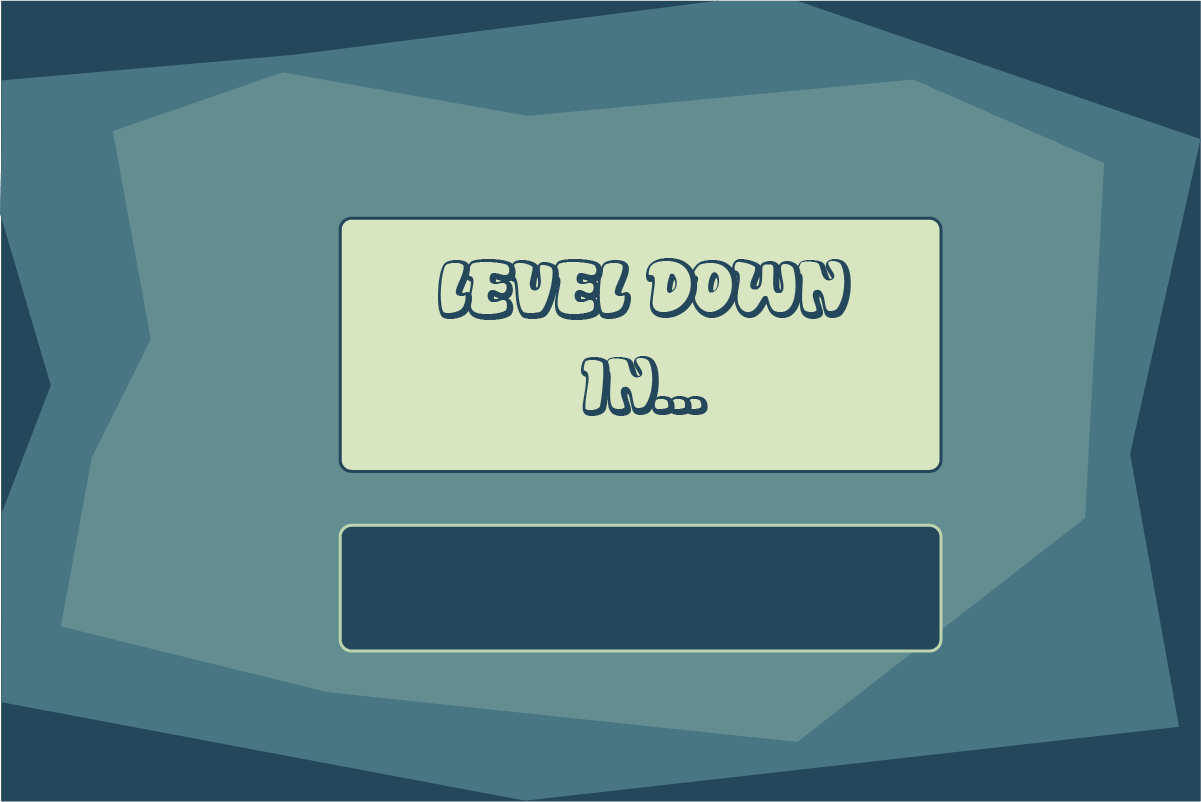
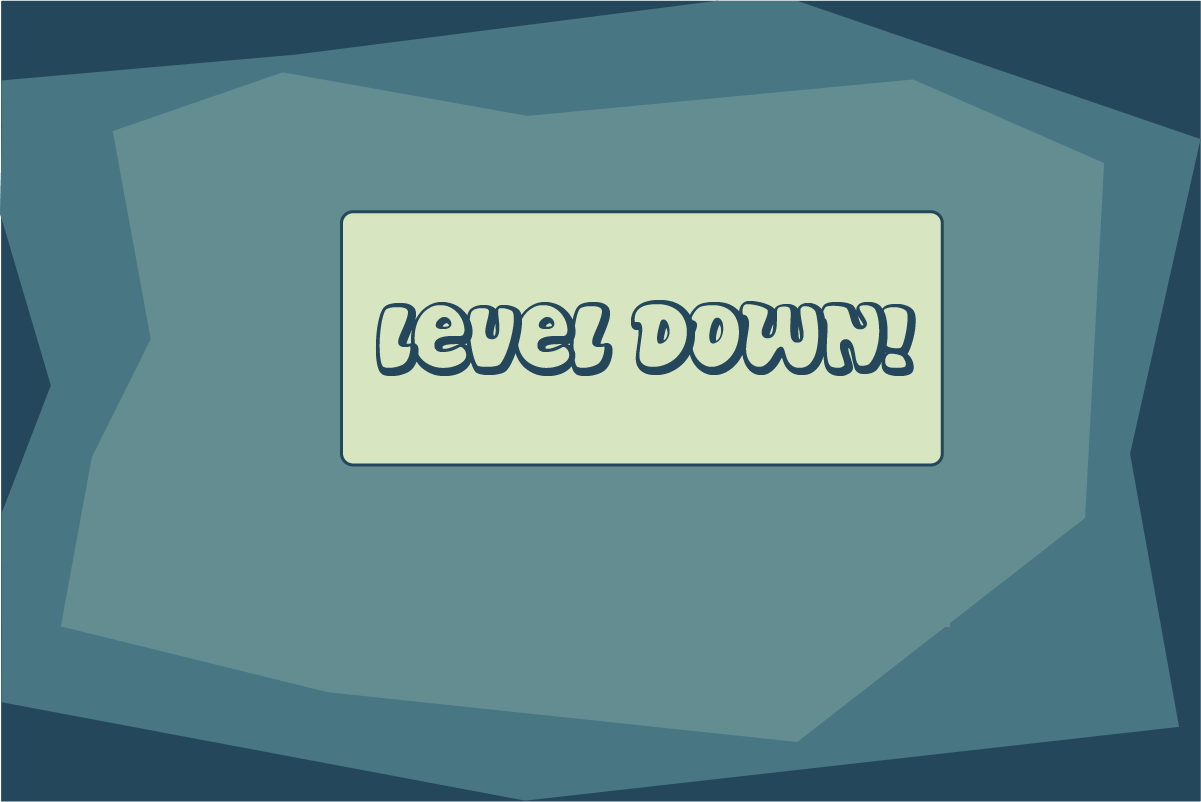
updated

Changed region(s): [[0.2773, 0.2494, 0.801, 0.5923], [0.2773, 0.6546, 0.801, 0.8416]]

diff --git a/GTY4/Game.ts b/GTY4/Game.ts
@@ -12,7 +12,7 @@ var game = new Phaser.Game(1200, 800, Phaser.AUTO, 'container', {
 
 
         //Where to place the Question answered text
-        textPlace: 30,
+        textPlace: 90,
 
         //Players Information
         //startValue: 0,
@@ -31,6 +31,7 @@ var game = new Phaser.Game(1200, 800, Phaser.AUTO, 'container', {
 
         levels: {
             1: {
+                levelName: 'Level 1',
                 startValue: 1,
                 endValue: 10,
                 playerMaxValue: 10,
@@ -66,6 +67,7 @@ var game = new Phaser.Game(1200, 800, Phaser.AUTO, 'container', {
                 ]
             },
             2: {
+                levelName: 'Level 2',
                 startValue: 50,
                 endValue: 0,
                 playerMaxValue: 50,
@@ -139,6 +141,7 @@ var game = new Phaser.Game(1200, 800, Phaser.AUTO, 'container', {
                 ],
             },
             3: {
+                levelName: 'Level 3',
                 startValue: 0,
                 endValue: 50,
                 playerMaxValue: 100,
@@ -305,7 +308,8 @@ var game = new Phaser.Game(1200, 800, Phaser.AUTO, 'container', {
         game.load.image('enemy', 'assets/shark1.png');
         game.load.image('jelly', 'assets/jelly1.png');
         game.load.image('end', 'assets/credits.png');
-        game.load.image('loose', 'assets/loose.png');
+        game.load.image('down', 'assets/loose.png');
+        game.load.image('title', 'assets/TitleBar.png');
 
         game.load.image('clam', 'assets/clam.png');
     },
@@ -319,6 +323,7 @@ var game = new Phaser.Game(1200, 800, Phaser.AUTO, 'container', {
 
         this.gameState = {
             currentLevel: levelId,
+            levelName: this.config.levels[levelId].levelName,
             currentValue: this.config.levels[levelId].startValue,
             endValue: this.config.levels[levelId].endValue,
             playerMaxValue: this.config.levels[levelId].playerMaxValue,
@@ -479,9 +484,18 @@ var game = new Phaser.Game(1200, 800, Phaser.AUTO, 'container', {
         this.livesSprite.frame = 2;
 
         //Score Board - Top Eats
-        this.topEatsUI = this.add.image(500, 500, 'eatsUI')
+        this.topEatsUI = this.add.image(500, 500, 'eatsUI');
         this.topEatsUI.fixedToCamera = true;
-        this.topEatsUI.cameraOffset.setTo(this.config.worldSizeX - 200, 10);
+        this.topEatsUI.cameraOffset.setTo(this.config.worldSizeX - 200, 50);
+
+        //title Bar - name of level
+        this.titleUI = this.add.image(500, 500, 'title');
+        this.titleUI.fixedToCamera = true;
+        this.titleUI.cameraOffset.setTo(this.config.worldSizeX - 200, 10);
+
+        this.titleText = this.make.text(5, 5, this.gameState.levelName, {fill: '#000000'});
+        this.titleUI.addChild(this.titleText);
+
 
         this.config.scoreValue += 25;
 
@@ -548,14 +562,29 @@ var game = new Phaser.Game(1200, 800, Phaser.AUTO, 'container', {
 
         game.add.tween(this.levelUp).to( { alpha: 0 }, 3000, Phaser.Easing.Linear.None, true);
 
-        game.time.events.add(Phaser.Timer.SECOND * 4, this._endLevelUp, this)
+        game.time.events.add(Phaser.Timer.SECOND * 4, this._endLevel, this)
 
 
     },
 
-    _endLevelUp: function(){
+    _endLevel: function(){
         this.game.world.removeAll();
         this.create();
+
+    },
+
+    addLevelDownScreen: function (){
+
+        this.config.currentLevel --;
+
+        this.background = game.add.image(0, 0, 'bg');
+
+        this.levelDown = game.add.image(0, 0, 'down');
+
+        game.add.tween(this.levelDown).to( { alpha: 0 }, 3000, Phaser.Easing.Linear.None, true);
+
+        game.time.events.add(Phaser.Timer.SECOND * 4, this._endLevel, this)
+
 
     },
 
@@ -593,9 +622,10 @@ var game = new Phaser.Game(1200, 800, Phaser.AUTO, 'container', {
             
             //go down to easier dificulty
             if(this.config.currentLevel > 1){
-                this.config.currentLevel -= 1;
+                this.config.currentLevel = this.gameState.currentLevel;
+
                 this.game.world.removeAll();
-                this.addLevelUpScreen();
+                this.addLevelDownScreen();
             }else{
                 // //you now have full lives and you speed is reset to fastest
                 this.gameState.currentSpeed = 0;
